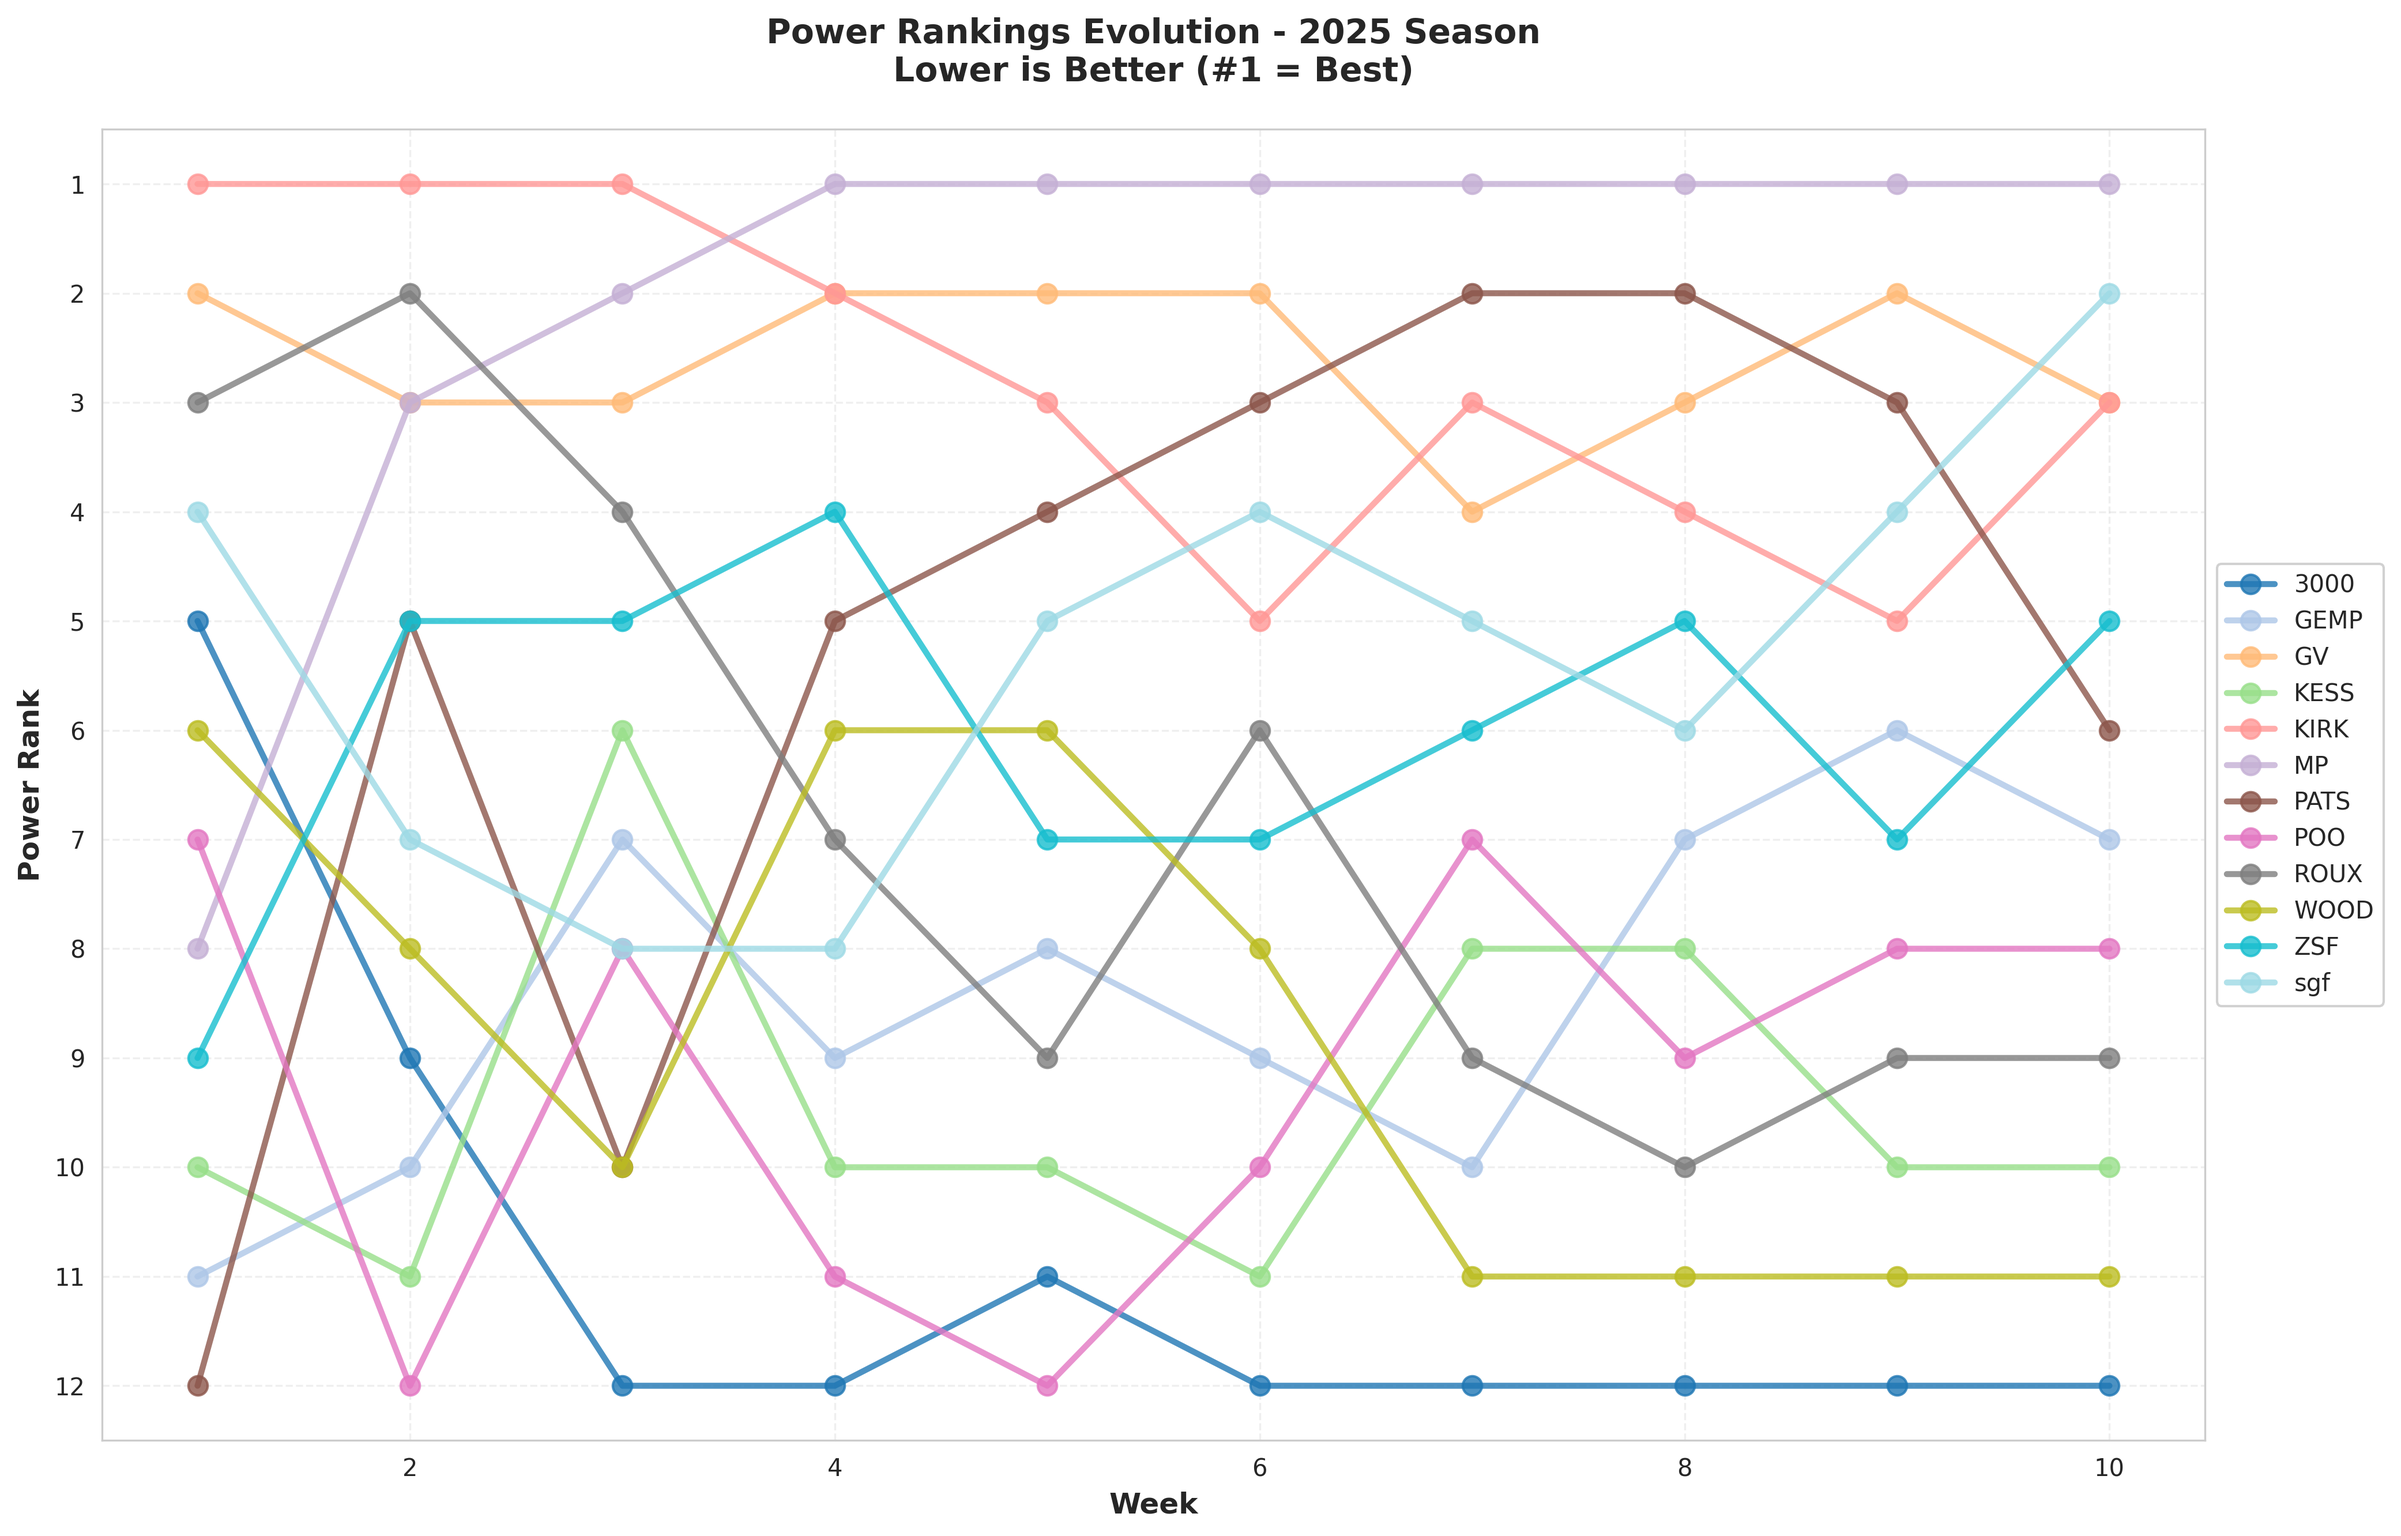
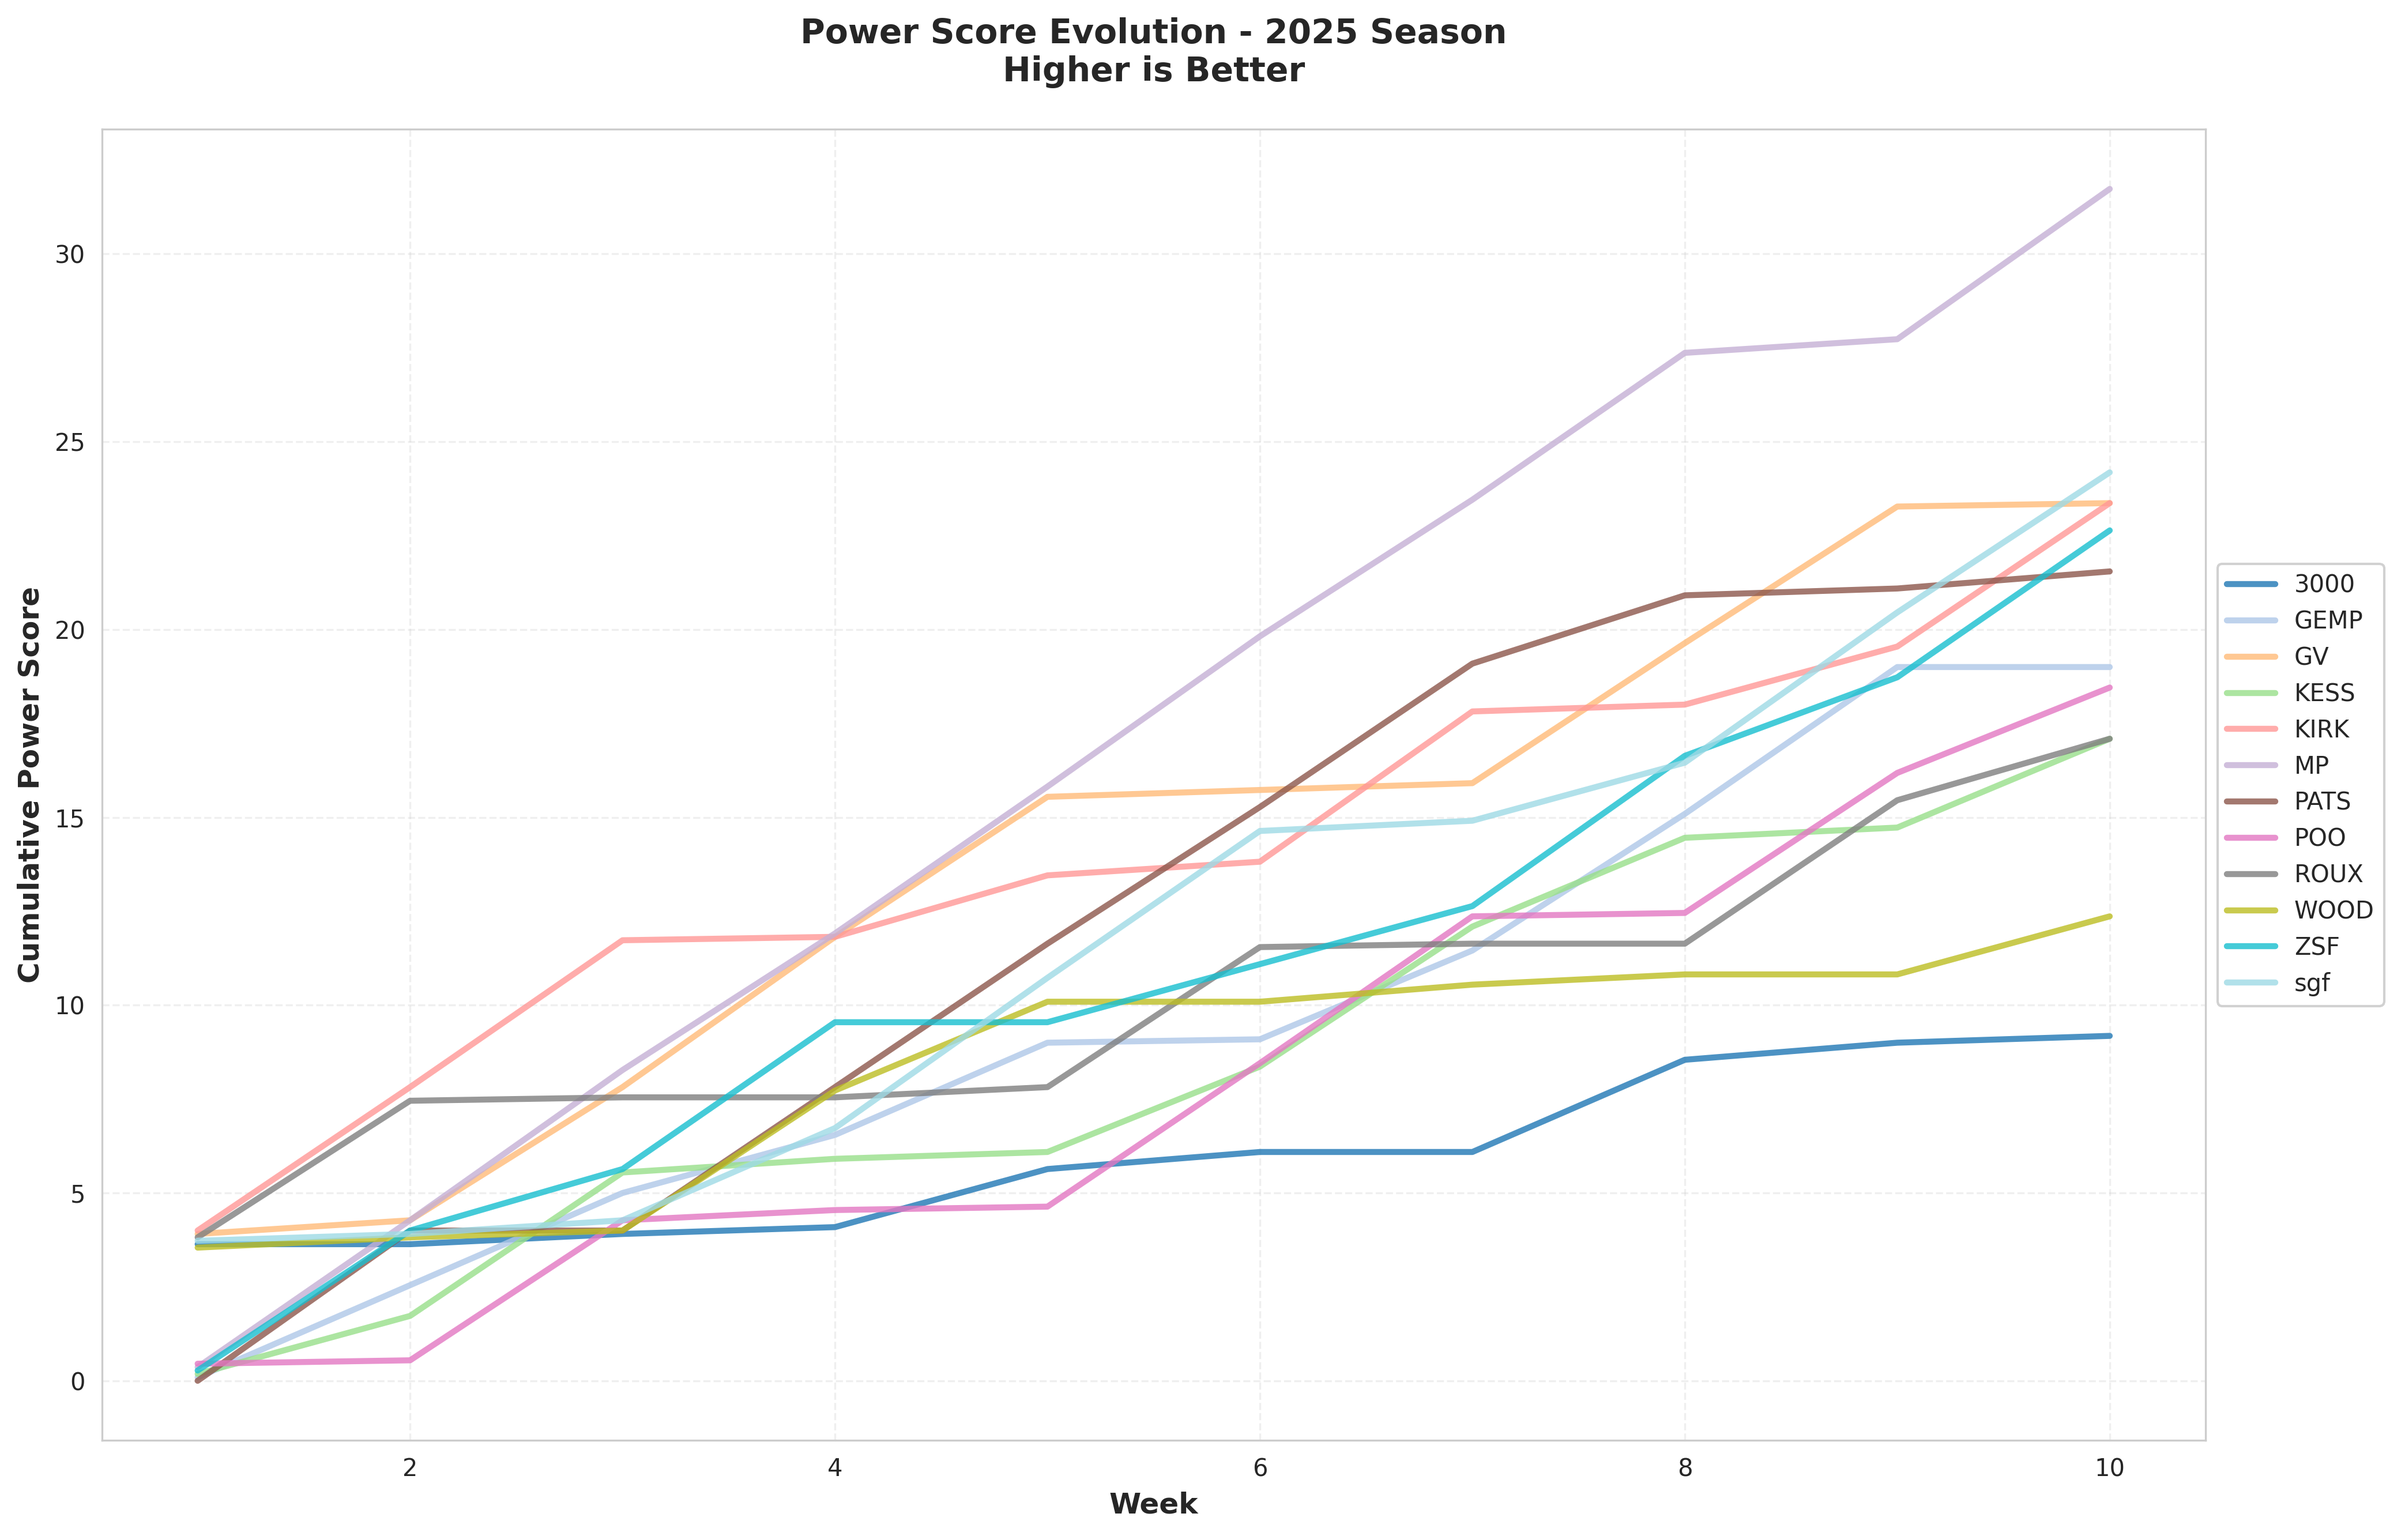
Update power rankings analysis to include MVP-W and Top 6 Wins
Modify `power_rankings_analysis.md` to include MVP-W and Top 6 Wins in the team-by-team analysis. Update the "Power Rankings Evolution" section to "Power Score Evolution", changing the y-axis label and description to reflect cumulative power score instead of weekly rank, and remove markers from the plot in `team_analysis.py`.

Replit-Commit-Author: Agent
Replit-Commit-Session-Id: a1b036e6-8762-4180-88a8-0ea07671e400
Replit-Commit-Checkpoint-Type: full_checkpoint
Replit-Commit-Event-Id: 8f55bbd6-5fbb-4512-85ca-7687f3a4965e

diff --git a/team_analysis.py b/team_analysis.py
@@ -373,17 +373,14 @@ def create_visualizations(df, summary):
     
     for team, color in zip(teams, colors):
         team_data = weekly_rankings[weekly_rankings['team_name'] == team].sort_values('week')
-        ax.plot(team_data['week'], team_data['power_rank'], 
-               marker='o', linewidth=2.5, markersize=8, 
-               label=team, color=color, alpha=0.8)
+        ax.plot(team_data['week'], team_data['power_score'], 
+               linewidth=2.5, label=team, color=color, alpha=0.8)
     
     ax.set_xlabel('Week', fontsize=12, fontweight='bold')
-    ax.set_ylabel('Power Rank', fontsize=12, fontweight='bold')
-    ax.set_title(f'Power Rankings Evolution - {latest_season} Season\nLower is Better (#1 = Best)', 
+    ax.set_ylabel('Cumulative Power Score', fontsize=12, fontweight='bold')
+    ax.set_title(f'Power Score Evolution - {latest_season} Season\nHigher is Better', 
                 fontsize=14, fontweight='bold', pad=20)
     ax.grid(True, alpha=0.3, linestyle='--')
-    ax.set_ylim(12.5, 0.5)  # Inverted so #1 is at top
-    ax.set_yticks(range(1, 13))
     ax.legend(loc='center left', bbox_to_anchor=(1, 0.5), fontsize=10, framealpha=0.9)
     
     plt.tight_layout()
@@ -457,11 +454,11 @@ Example: If you have 6 real wins but only 4.0 MVP-W, your WAX is +2.0. That mean
 
 ![Power Score Breakdown](visualizations/power_breakdown.png)
 
-## Power Rankings Evolution Over Time
+## Power Score Evolution Over Time
 
-![Power Rankings Evolution](visualizations/power_rankings_evolution.png)
+![Power Score Evolution](visualizations/power_rankings_evolution.png)
 
-*Lower rank is better - watch how teams rise and fall throughout the season.*
+*Cumulative power score by week - higher is better. Watch how teams' performances build throughout the season.*
 
 ---
 
@@ -537,7 +534,8 @@ Example: If you have 6 real wins but only 4.0 MVP-W, your WAX is +2.0. That mean
                 analysis = f"Last place with {wins}-{losses}. Your {ppg:.2f} PPG is the worst in the league, and your {wax:+.2f} WAX shows you're getting exactly what you've earned—nothing. At least you own it?"
         
         md += f"""### #{rank} {team} - Power Score: {power:.2f}
-**Record: {wins}-{losses} | PPG: {ppg:.2f} | WAX: {wax:+.2f}**
+**Record: {wins}-{losses} | PPG: {ppg:.2f} | WAX: {wax:+.2f}**  
+**Components: Real Wins: {wins} | Top6 Wins: {top6} | MVP-W: {mvp_w:.2f}**
 
 {analysis}
 

diff --git a/power_rankings_analysis.md b/power_rankings_analysis.md
@@ -54,95 +54,107 @@ Example: If you have 6 real wins but only 4.0 MVP-W, your WAX is +2.0. That mean
 
 ![Power Score Breakdown](visualizations/power_breakdown.png)
 
-## Power Rankings Evolution Over Time
+## Power Score Evolution Over Time
 
-![Power Rankings Evolution](visualizations/power_rankings_evolution.png)
+![Power Score Evolution](visualizations/power_rankings_evolution.png)
 
-*Lower rank is better - watch how teams rise and fall throughout the season.*
+*Cumulative power score by week - higher is better. Watch how teams' performances build throughout the season.*
 
 ---
 
 ## Team-by-Team Analysis (With the Snark You Deserve)
 
 ### #1 MP - Power Score: 31.73
-**Record: 8-2 | PPG: 121.44 | WAX: +0.27**
+**Record: 8-2 | PPG: 121.44 | WAX: +0.27**  
+**Components: Real Wins: 8 | Top6 Wins: 8 | MVP-W: 7.73**
 
 Congratulations, you're actually good. With 8 wins and the highest scoring average in the league, you're not just getting lucky—you're genuinely dominating. That +0.27 WAX means you've earned almost every win. The rest of the league is basically playing for second place at this point. Enjoy your inevitable championship and the awkward silence when you try to talk about your fantasy team at parties.
 
 ---
 
 ### #2 sgf - Power Score: 24.18
-**Record: 6-4 | PPG: 112.89 | WAX: -0.18**
+**Record: 6-4 | PPG: 112.89 | WAX: -0.18**  
+**Components: Real Wins: 6 | Top6 Wins: 6 | MVP-W: 6.18**
 
 Solidly in second place, you're doing everything right: consistent top-6 finishes, decent wins, and you're actually *slightly* unlucky (-0.18 WAX). You're the tortoise to MP's hare, except the hare is already at the finish line and the tortoise is stuck in traffic. Still, you're legitimately good—just not good enough to catch the leader.
 
 ---
 
 ### #3 GV - Power Score: 23.36
-**Record: 6-4 | PPG: 103.66 | WAX: +0.64**
+**Record: 6-4 | PPG: 103.66 | WAX: +0.64**  
+**Components: Real Wins: 6 | Top6 Wins: 6 | MVP-W: 5.36**
 
 Legitimately good, but let's be honest—you're getting a little help from the schedule gods. That +0.64 WAX means you've won 0.6 more games than your scoring suggests. Your 103.66 PPG is solid, but sitting at 6-4 is partly luck. Keep it up, but watch out for regression.
 
 ---
 
 ### #3 KIRK - Power Score: 23.36
-**Record: 5-5 | PPG: 111.27 | WAX: -1.36**
+**Record: 5-5 | PPG: 111.27 | WAX: -1.36**  
+**Components: Real Wins: 5 | Top6 Wins: 7 | MVP-W: 6.36**
 
 Oh, KIRK. You poor, unfortunate soul. You're scoring 111.27 PPG, finishing in the top 6 7 times, and somehow you're sitting at 5-5. That -1.36 WAX is brutal—you should have at least 6-4 by now. You're the fantasy football equivalent of a talented actor who never gets nominated for an Oscar. Maybe next week schedule some easier opponents? Oh wait, that's not how this works.
 
 ---
 
 ### #5 ZSF - Power Score: 22.64
-**Record: 5-5 | PPG: 111.25 | WAX: -0.64**
+**Record: 5-5 | PPG: 111.25 | WAX: -0.64**  
+**Components: Real Wins: 5 | Top6 Wins: 7 | MVP-W: 5.64**
 
 Another victim of bad luck with -0.64 WAX. You're scoring 111.25 PPG with 7 top-6 finishes, but sitting at 5-5 because apparently your opponents save their best weeks for you. The fantasy football scheduling algorithm clearly has it out for you. At least you can take solace in knowing you're better than your record suggests.
 
 ---
 
 ### #6 PATS - Power Score: 21.55
-**Record: 5-5 | PPG: 106.40 | WAX: -0.55**
+**Record: 5-5 | PPG: 106.40 | WAX: -0.55**  
+**Components: Real Wins: 5 | Top6 Wins: 6 | MVP-W: 5.55**
 
 Another victim of bad luck with -0.55 WAX. You're scoring 106.40 PPG with 6 top-6 finishes, but sitting at 5-5 because apparently your opponents save their best weeks for you. The fantasy football scheduling algorithm clearly has it out for you. At least you can take solace in knowing you're better than your record suggests.
 
 ---
 
 ### #7 GEMP - Power Score: 19.00
-**Record: 6-4 | PPG: 100.81 | WAX: +2.00**
+**Record: 6-4 | PPG: 100.81 | WAX: +2.00**  
+**Components: Real Wins: 6 | Top6 Wins: 3 | MVP-W: 4.00**
 
 Oh, GEMP. You beautiful, lucky bastard. You're ranked #7 in power but sitting at 6-4 because you have a league-leading +2.00 WAX. That means you've won TWO more games than your mediocre 100.81 PPG deserves. You're the kid who guesses on every test question and somehow passes. Enjoy your fraudulent record while it lasts—the fantasy gods giveth, and they definitely taketh away.
 
 ---
 
 ### #8 POO - Power Score: 18.45
-**Record: 5-5 | PPG: 102.37 | WAX: +0.55**
+**Record: 5-5 | PPG: 102.37 | WAX: +0.55**  
+**Components: Real Wins: 5 | Top6 Wins: 4 | MVP-W: 4.45**
 
 Even with +0.55 WAX helping you out, you're still sitting at 5-5. That 102.37 PPG isn't doing you any favors. You're winning more than you should, and you're still struggling. Imagine if you were unlucky?
 
 ---
 
 ### #9 ROUX - Power Score: 17.09
-**Record: 4-6 | PPG: 96.72 | WAX: -0.09**
+**Record: 4-6 | PPG: 96.72 | WAX: -0.09**  
+**Components: Real Wins: 4 | Top6 Wins: 5 | MVP-W: 4.09**
 
 Fighting for scraps with a 4-6 record. That 96.72 PPG is bottom-tier, and your -0.09 WAX shows the fantasy gods aren't helping. Consistency isn't your strong suit. Neither is winning, apparently.
 
 ---
 
 ### #10 KESS - Power Score: 17.09
-**Record: 5-5 | PPG: 99.78 | WAX: +0.91**
+**Record: 5-5 | PPG: 99.78 | WAX: +0.91**  
+**Components: Real Wins: 5 | Top6 Wins: 3 | MVP-W: 4.09**
 
 You somehow have 5 wins despite a pathetic 99.78 PPG. That +0.91 WAX means you're winning games you have no business winning. You're like the relief pitcher who keeps giving up runs but somehow gets credited with wins. The most consistent thing about you is your ability to consistently underperform while still stumbling into victories.
 
 ---
 
 ### #11 WOOD - Power Score: 12.36
-**Record: 3-7 | PPG: 91.84 | WAX: -0.36**
+**Record: 3-7 | PPG: 91.84 | WAX: -0.36**  
+**Components: Real Wins: 3 | Top6 Wins: 3 | MVP-W: 3.36**
 
 Second-to-last with 3-7. Your 91.84 PPG is brutal, and even with -0.36 WAX, you can't escape the bottom. You're not just bad—you're bad AND getting exactly what you deserve. At least you're not in last place?
 
 ---
 
 ### #12 3000 - Power Score: 9.18
-**Record: 2-8 | PPG: 91.15 | WAX: -1.18**
+**Record: 2-8 | PPG: 91.15 | WAX: -1.18**  
+**Components: Real Wins: 2 | Top6 Wins: 2 | MVP-W: 3.18**
 
 Dead last. Basement dweller. The league's punching bag. You're scoring 91.15 PPG (worst in the league), you have 2 wins (also worst), and you're STILL unlucky (-1.18 WAX)! You should theoretically have 3 wins, but nope, even the universe has given up on you. The good news? You can only go up from here. The bad news? That's what you said last year.
 
